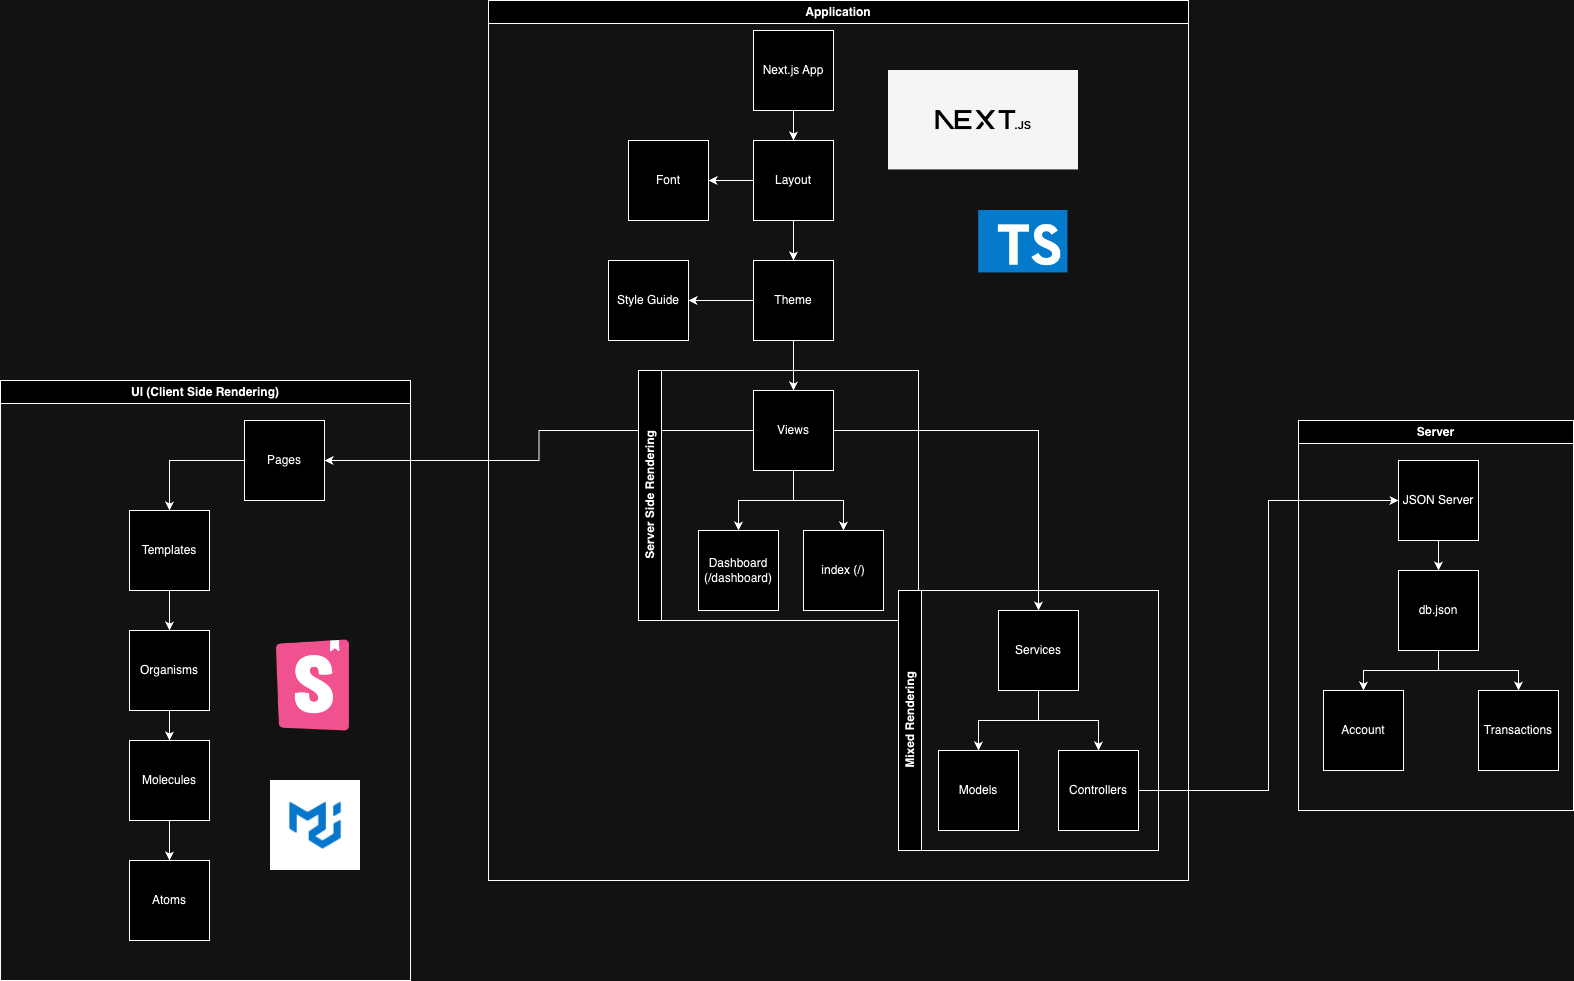
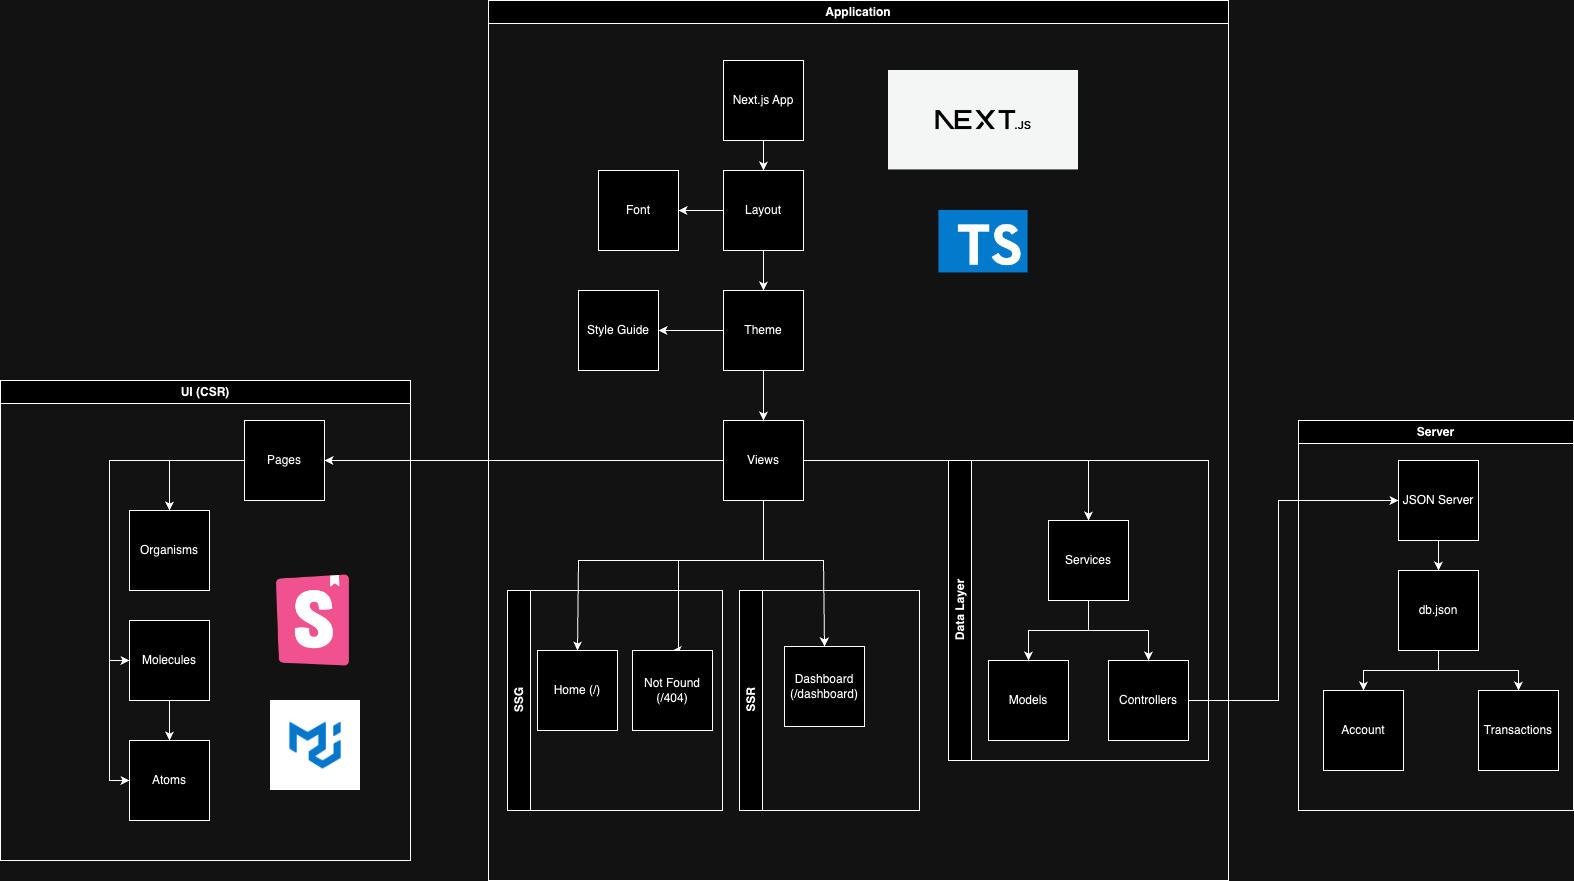
chore: update readme

diff --git a/README.md b/README.md
@@ -11,6 +11,10 @@ O protótipo das telas desenvolvidas pode ser encontrado no [Figma](https://www.
 
 ![Archictecture preview](.github/architecture.png)
 
+O projeto está usando SSG para algumas views estáticas e SSR para a view de dashboard. Além disso, toda a estrutura de componentes (UI) que a view consome está usando CSR.
+
+![Bundle preview](.github/bundle-preview.png)
+
 ### Styleguide
 
 Para o desenvolvimento do projeto nós seguimos o style guide proposto, porém com adaptações para seguir o [Material Design](https://m3.material.io/) e outras práticas que o grupo achou pertinente mudar.
